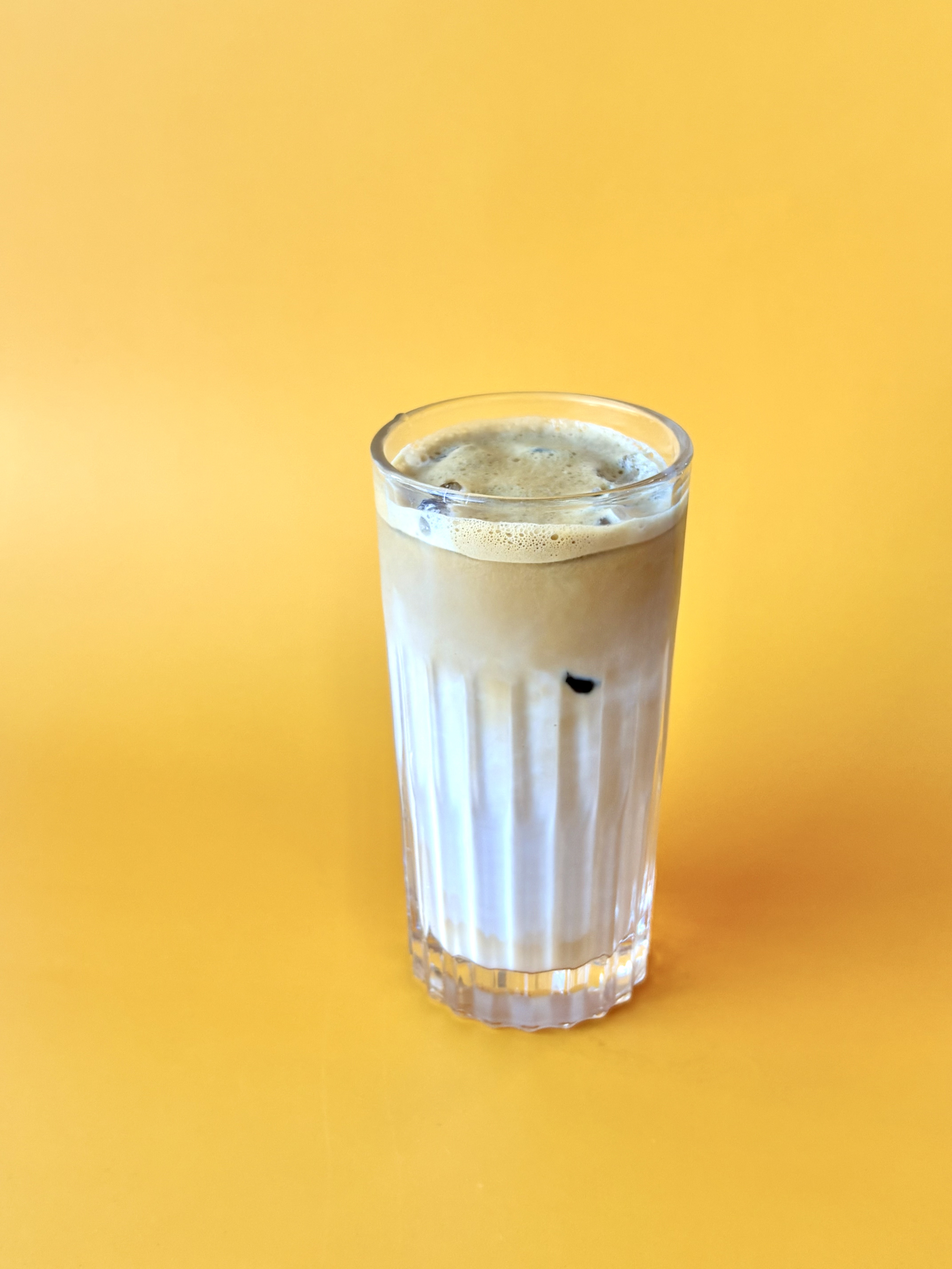
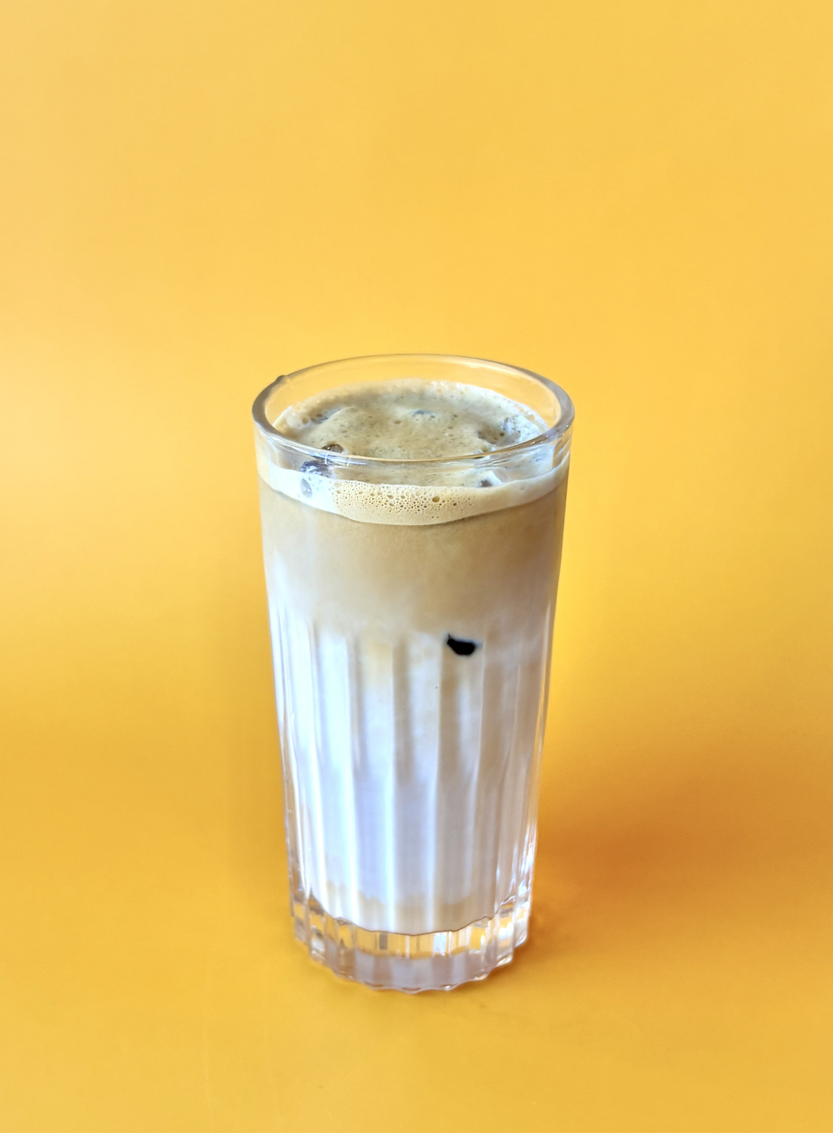
Add images to menu data

Changed region(s): [[0.2807, 0.3118, 0.9355, 0.9043], [0.0, 0.8107, 0.0312, 0.9043], [0.0, 0.7172, 0.0312, 0.7484]]

diff --git a/src/app/menu/menu-data.ts b/src/app/menu/menu-data.ts
@@ -17,7 +17,7 @@ export const MENU_ITEMS: Record<MenuCategory, MenuItem[]> = {
         {
             name: "Cappuccino",
             description: "House blend espresso with steamed milk and foam.",
-            image: "/menu/drinks/icedlatte.jpeg",
+            image: "/menu/drinks/cappuccino.jpeg",
         },
         {
             name: "Latte",
@@ -27,12 +27,12 @@ export const MENU_ITEMS: Record<MenuCategory, MenuItem[]> = {
         {
             name: "Mocha",
             description: "Chocolate and house blend espresso with steamed milk and foam.",
-            image: "/menu/drinks/icedlatte.jpeg",
+            image: "/menu/drinks/mocha.jpeg",
         },
         {
             name: "Cold Brew",
             description: "12 hour brewed cold brew coffee.",
-            image: "https://images.unsplash.com/photo-1527156231393-7023794f363c?auto=format&fit=crop&w=900&q=80",
+            image: "/menu/drinks/americano.jpeg",
         },
         {
             name: "Matcha Latte",
@@ -47,7 +47,7 @@ export const MENU_ITEMS: Record<MenuCategory, MenuItem[]> = {
         {
             name: "Iced Coconut Matcha",
             description: "Refreshing ceremonial grade matcha with coconut water.",
-            image: "/menu/drinks/.jpeg",
+            image: "/menu/drinks/coco_matcha.jpeg",
         },
         {
             name: "Tiramisu Latte",
@@ -62,7 +62,7 @@ export const MENU_ITEMS: Record<MenuCategory, MenuItem[]> = {
         {
             name: "Coconut Iced Latte",
             description: "Simply addicting creamy iced latte made with coconut milk.",
-            image: "https://images.unsplash.com/photo-1626595444746-59219e6838ac?auto=format&fit=crop&w=900&q=80",
+            image: "/menu/drinks/coconut_latte.jpeg",
         },
         {
             name: "Bee's Knee",
@@ -82,105 +82,104 @@ export const MENU_ITEMS: Record<MenuCategory, MenuItem[]> = {
         {
             name: "Chai Latte",
             description: "Spiced black tea latte with a hint of cinnamon and nutmeg.",
-            image: "/menu/drinks/.jpeg",
+            image: "/menu/drinks/chai.jpeg",
         },
         {
             name: "Hot Chocolate",
             description: "Rich and creamy hot chocolate with milk.",
-            image: "/menu/drinks/.jpeg",
+            image: "/menu/drinks/chocolate.jpeg",
         },
         {
             name: "Rising Green",
             description: "Refreshing green tea. Available Hot or Iced.",
-            image: "/menu/drinks/.jpeg",
+            image: "/menu/drinks/green_tea.jpeg",
         },
         {
             name: "Black Tea",
             description: "Classic black tea. Available Hot or Iced.",
-            image: "/menu/drinks/.jpeg",
+            image: "/menu/drinks/black_tea.jpeg",
         },
     ],
     Bakery: [
         {
             name: "Pistachio Croissant",
             description: "Classic croissant with a layer of pistachio paste.",
-            image: "/menu/bakery/pistachio_croissant.jpeg",
-        }
-        ,
+            image: "/menu/food/pistachio_croissant.jpeg",
+        },
         {
             name: "Almond Croissant",
             description: "Classic twice-baked croissant with almond flakes.",
-            image: "https://images.unsplash.com/photo-1618111415321-b406d66958de?auto=format&fit=crop&w=900&q=80",
+            image: "/menu/food/almond_crossiant.jpeg",
         },
         {
             name: "Pain Au Chocolat",
             description: "Classic croissant with a chocolate filling.",
-            image: "/menu/bakery/chocolate_croissant.jpeg",
+            image: "",
         },
         {
             name: "Pain Suisse",
             description: "Classic croissant with a buttery crust and a sweet pastry cream filling.",
-            image: "/menu/bakery/plain_donut.jpeg",
+            image: "",
         },
         {
             name: "Ham & Cheese Croissant",
             description: "Double-baked croissant with a creamy cheese filling and ham.",
-            image: "/menu/bakery/chocolate_croissant.jpeg",
+            image: "",
         },
         {
             name: "Chocolate Banana Croissant",
             description: "Croissant with a chocolate and banana filling.",
-            image: "/menu/bakery/chocolate_croissant.jpeg",
+            image: "/menu/food/chocolate_banana.jpeg",
         },
         {
             name: "Fruit Danish",
             description: "Danish with a pastry cream and fresh berries.",
-            image: "/menu/bakery/chocolate_croissant.jpeg",
+            image: "/menu/food/fruit_danish.jpeg",
         },
         {
             name: "Butter Croissant",
             description: "Simply addictive butter croissant with a warm and flaky texture.",
-            image: "/menu/bakery/croissant_sandwich.jpeg",
+            image: "",
         },
         {
             name: "Strawberry Cream Donut",
             description: "Brioche Donut with a strawberry filling.",
-            image: "/menu/bakery/donut.jpeg",
+            image: "",
         },
         {
             name: "Mango Cream Donut",
             description: "Brioche Donut with a mango filling.",
-            image: "/menu/bakery/donut.jpeg",
+            image: "",
         },
         {
             name: "Cinnamon Roll",
             description: "Soft and fluffy cinnamon roll with a sweet and sticky cinnamon sugar filling.",
-            image: "/menu/bakery/plain_donut.jpeg",
+            image: "",
         },
         {
             name: "Scones",
             description: "Buttery scones with a sweet or savory filling.",
-            image: "/menu/bakery/chocolate_croissant.jpeg",
+            image: "",
         },
         {
             name: "Double Chocolate Muffin",
             description: "Chocolate muffin with extra chocolate chips.",
-            image: "/menu/bakery/chocolate_croissant.jpeg",
+            image: "",
         },
         {
             name: "Cookies",
             description: "Chocolate chip cookies with a crispy exterior and a soft, chewy center.",
-            image: "/menu/bakery/chocolate_croissant.jpeg",
+            image: "/menu/food/cookie.jpeg",
         },
         {
             name: "Chocolate Roll Cake",
             description: "Soft sponge rolled with rich chocolate cream—sliceable and indulgent.",
-            image: "",
+            image: "/menu/food/roll_cake.jpeg",
         },
         {
             name: "Tiramisu",
             description: "Layers of espresso-soaked sponge, mascarpone, and cocoa.",
-            image: "",
+            image: "/menu/food/tiramisu.jpeg",
         },
         {
             name: "Cheese Cake",
@@ -214,10 +213,9 @@ export const MENU_ITEMS: Record<MenuCategory, MenuItem[]> = {
             description: "Tender, herb-roasted beef stacked high with rich cheese and juicy tomato slices, perfectly paired with a refreshing garden salad and fresh seasonal fruits.",
             image: "/menu/food/theSanFrancisco.jpeg",
         },
-
         {
             name: "Mushroom on Ciabatta",
-            description: "Mushroom on ciabatta with a side salad and fresh seasonal fruits.",
+            description: "Roasted mushrooms on ciabatta with a side salad and fresh seasonal fruits.",
             image: "/menu/food/mushroom.jpeg",
         },
     ],
